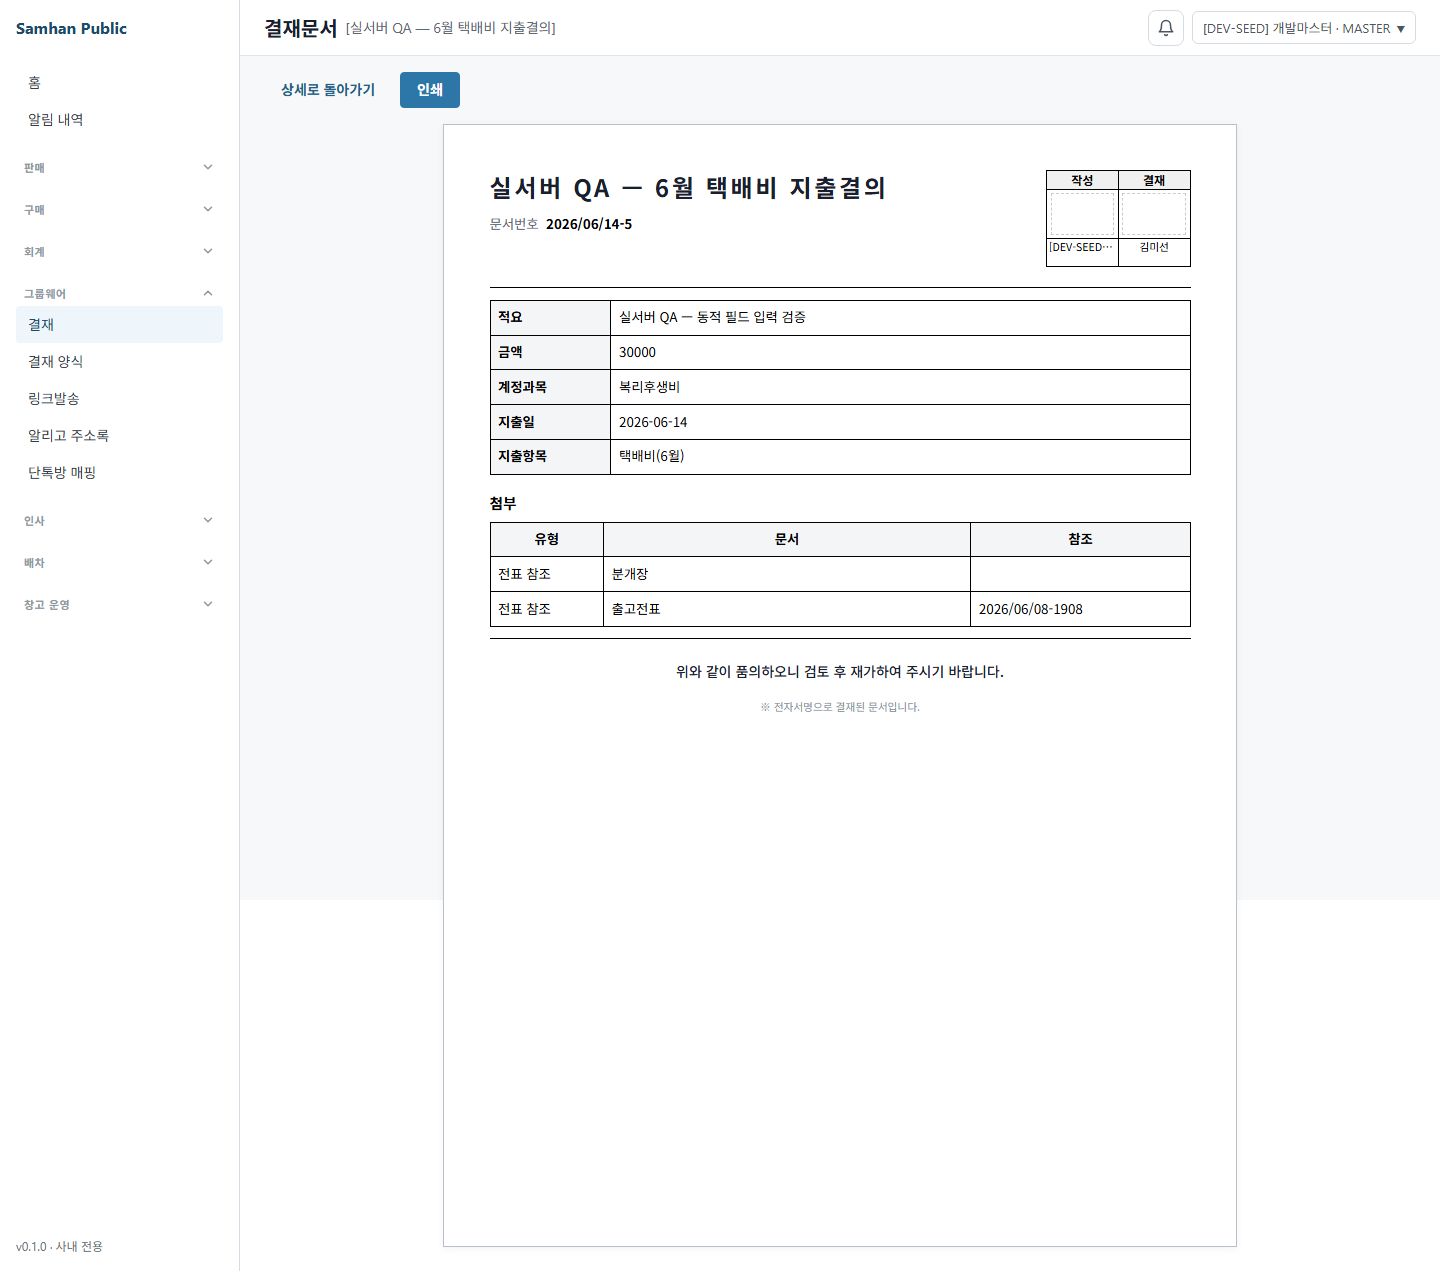
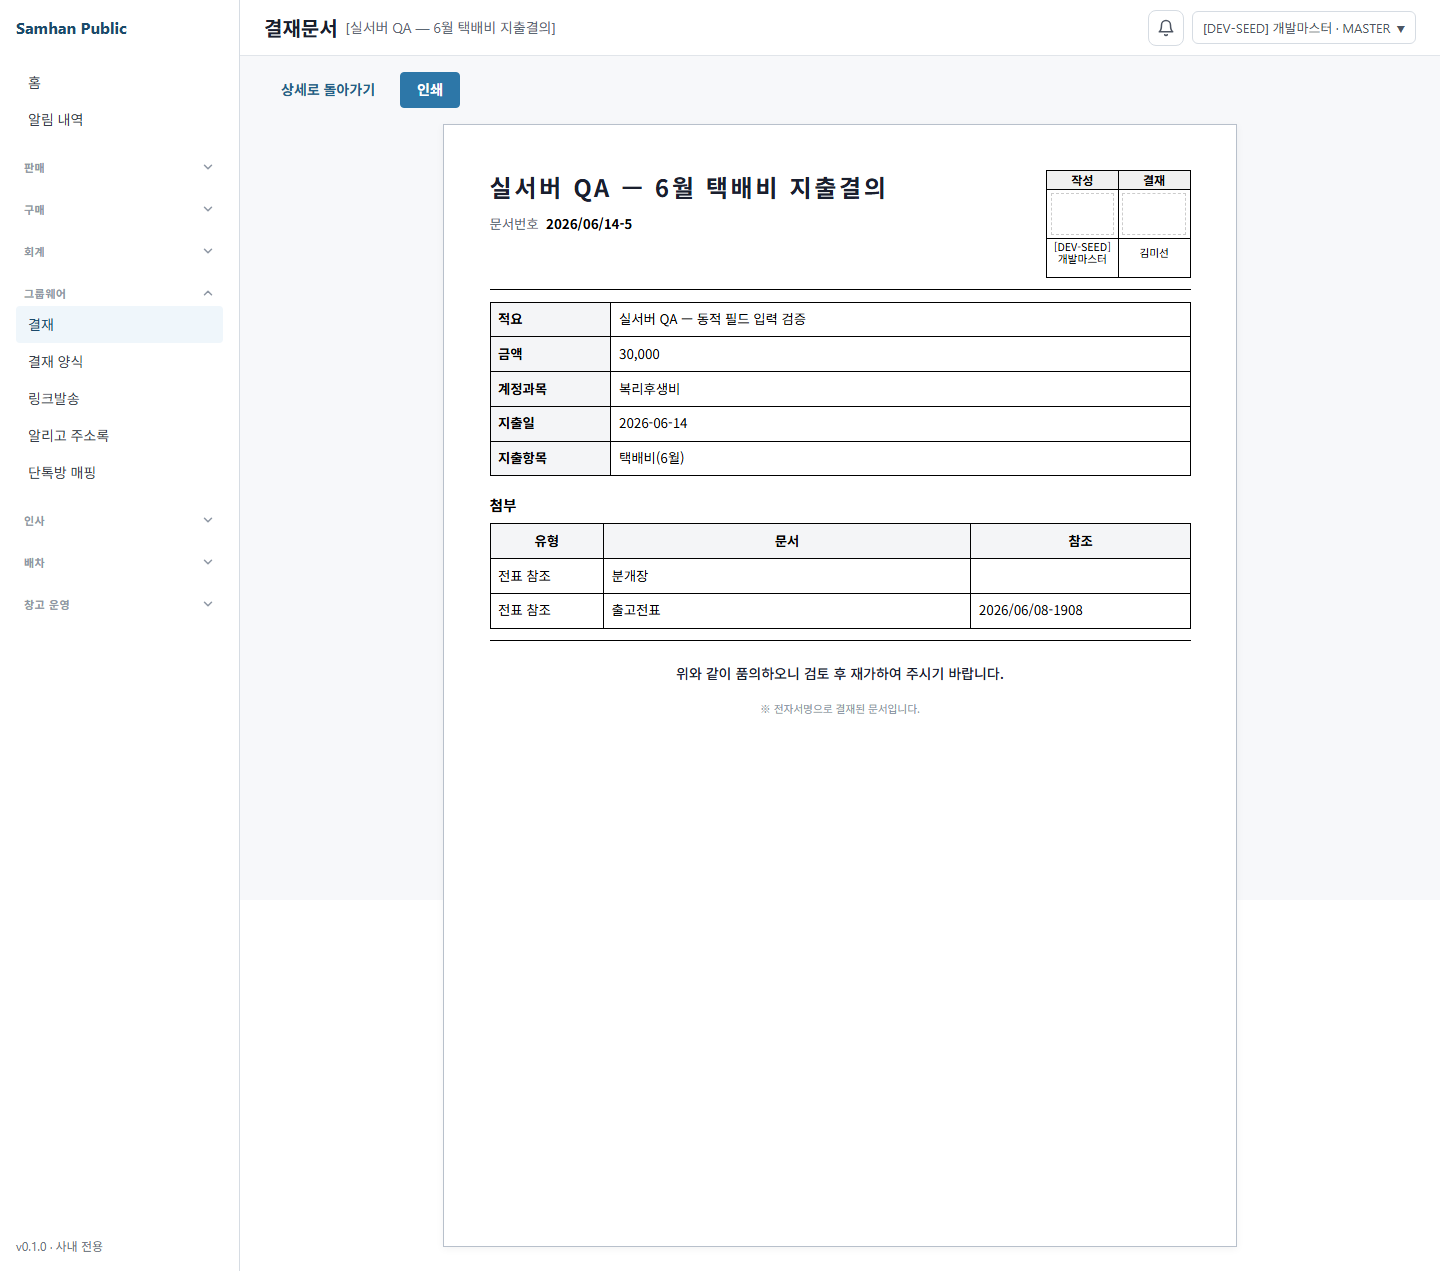
[FIX] 슬라이스2 Opus 5-agent 라운드 — 결재 라벨/발행일/금액콤마/이름줄바꿈 + A3 다단계 QA
Opus 5-agent(BE/FE/Designer/QA/DevOps) 리뷰 fix (Codex 적용):
- FE 라벨 로직: `step.sequence === steps.length` 절 제거 → 마지막 인덱스만 '결재', 나머지 '합의'
  (비연속 sequence 에서 중간 결재자 오분류 방지)
- FE 발행일: 최초 승인일 → 최종 결재자 승인일(finalDecidedAt) — 한국 공문서 관례
- FE 금액: 템플릿 NUMBER 필드 천단위 콤마(krw) — 회계 표시 일관성 (30000 → 30,000)
- CSS(.print-approval-doc 스코프): 긴 결재자 이름 ellipsis → 줄바꿈(keep-all), header break-inside avoid
  (slip 양식 선택자 불변 — approvalDoc 전용)
- QA: A3 다단계 승인 결재 캡처 추가 — 작성/합의/결재 라벨 + 발행일(최종 승인일) + decidedAt 실증

검증(PM, 라이브):
- BE P1(Jackson decidedAt 배열직렬화) = 거짓양성. 라이브 decidedAt = ISO 문자열 "2026-05-16T13:29:24" 정상 → formatApprovalDecidedAt "2026/05/16 13:29" 렌더 확인. BE 무변경.
- typecheck PASS, lint 0 errors. real-qa A1/A2/A3 3건 PASS.
- A3 캡처(2026/05/16-23): 작성|합의|결재 3칸 + 발행일 2026년 05월 16일 + 13:29 확인.
- A1 캡처: 금액 30,000 + 이름 2줄 줄바꿈 확인.

Changed region(s): [[0.3438, 0.1841, 0.8125, 0.583], [0.7188, 0.3989, 0.7812, 0.4296], [0.5312, 0.3989, 0.5625, 0.4296]]

diff --git a/clients/desktop/src/renderer/print/ApprovalDocView.tsx b/clients/desktop/src/renderer/print/ApprovalDocView.tsx
@@ -26,7 +26,7 @@ import {
 } from '../api/groupwareApprovalTemplate'
 import { usePageTitle } from '../hooks/usePageTitle'
 import { stripSlipNoZeros } from '../utils/orderNo'
-import { PrintLayout, type PrintApprovalStep, type PrintDocHeader } from './PrintLayout'
+import { PrintLayout, krw, type PrintApprovalStep, type PrintDocHeader } from './PrintLayout'
 
 const CLOSING_NOTE = '위와 같이 품의하오니 검토 후 재가하여 주시기 바랍니다.'
 
@@ -41,25 +41,24 @@ function buildApprovalSteps(approval: ApprovalLineAdminResponse): PrintApprovalS
   return [
     buildApprovalStep('작성', approval.requesterName ?? '-'),
     ...sortedSteps.map((step, index) => {
-      const label = step.sequence === approval.steps.length || index === sortedSteps.length - 1
-        ? '결재'
-        : '합의'
+      const label = index === sortedSteps.length - 1 ? '결재' : '합의'
       const decidedAt = step.status === 'APPROVED' ? step.decidedAt ?? undefined : undefined
       return buildApprovalStep(label, step.approverName ?? '-', decidedAt)
     }),
   ]
 }
 
-function firstDecidedAt(steps: ApprovalStepView[]): string | undefined {
-  return steps
+function finalDecidedAt(steps: ApprovalStepView[]): string | undefined {
+  const decided = steps
     .slice()
     .sort((a, b) => a.sequence - b.sequence)
-    .find((step) => Boolean(step.decidedAt))
-    ?.decidedAt ?? undefined
+    .filter((step) => Boolean(step.decidedAt))
+  const last = decided.length > 0 ? decided[decided.length - 1] : undefined
+  return last?.decidedAt ?? undefined
 }
 
 function buildDocHeader(approval: ApprovalLineAdminResponse): PrintDocHeader {
-  const issueDate = firstDecidedAt(approval.steps)
+  const issueDate = finalDecidedAt(approval.steps)
   return {
     title: approval.title,
     docNo: approval.approvalNo,
@@ -74,22 +73,26 @@ function contentParagraphs(content: string | null): string[] {
     .filter((paragraph) => paragraph.length > 0)
 }
 
-function fieldLabelMap(fields: ApprovalTemplateField[]): Map<string, string> {
-  return new Map(fields.map((field) => [field.fieldKey, field.label]))
+function fieldMap(fields: ApprovalTemplateField[]): Map<string, ApprovalTemplateField> {
+  return new Map(fields.map((field) => [field.fieldKey, field]))
 }
 
 function fieldRows(
   fieldValues: Record<string, string>,
   fields: ApprovalTemplateField[],
-): Array<{ key: string; label: string; value: string }> {
-  const labels = fieldLabelMap(fields)
+): Array<{ key: string; label: string; value: string; fieldType: ApprovalTemplateField['fieldType'] }> {
+  const fieldsByKey = fieldMap(fields)
   return Object.entries(fieldValues)
     .filter(([, value]) => value.trim().length > 0)
-    .map(([key, value]) => ({
-      key,
-      label: labels.get(key) ?? key,
-      value,
-    }))
+    .map(([key, value]) => {
+      const field = fieldsByKey.get(key)
+      return {
+        key,
+        label: field?.label ?? key,
+        value,
+        fieldType: field?.fieldType ?? 'TEXT',
+      }
+    })
 }
 
 function attachmentTitle(attachment: ApprovalAttachment): string {
@@ -208,7 +211,7 @@ export function ApprovalDocView() {
                         overflowWrap: 'anywhere',
                       }}
                     >
-                      {field.value}
+                      {field.fieldType === 'NUMBER' ? krw(field.value) || field.value : field.value}
                     </td>
                   </tr>
                 ))}

diff --git a/clients/desktop/src/renderer/styles/global.css b/clients/desktop/src/renderer/styles/global.css
@@ -1837,6 +1837,8 @@ button {
   flex-direction: row;
   align-items: flex-start;
   gap: 8mm;
+  break-inside: avoid;
+  page-break-inside: avoid;
 }
 
 /* 좌측 = 문서제목 + 문서메타 세로 적층(회사명 블록 제거됨). */
@@ -1977,11 +1979,24 @@ button {
   overflow: hidden;
 }
 
-.print-approval-name div {
+.print-approval-doc .print-approval-cell {
+  grid-template-rows:
+    var(--print-approval-corner-label-h, 5mm)
+    var(--print-approval-corner-sig-h, 13mm)
+    minmax(var(--print-approval-corner-name-h, 7mm), auto);
+}
+
+.print-approval-doc .print-approval-name {
+  overflow: visible;
+}
+
+.print-approval-doc .print-approval-name div {
   max-width: 100%;
   overflow: hidden;
-  text-overflow: ellipsis;
-  white-space: nowrap;
+  text-overflow: clip;
+  white-space: normal;
+  word-break: keep-all;
+  overflow-wrap: anywhere;
 }
 
 .print-approval-name time {
